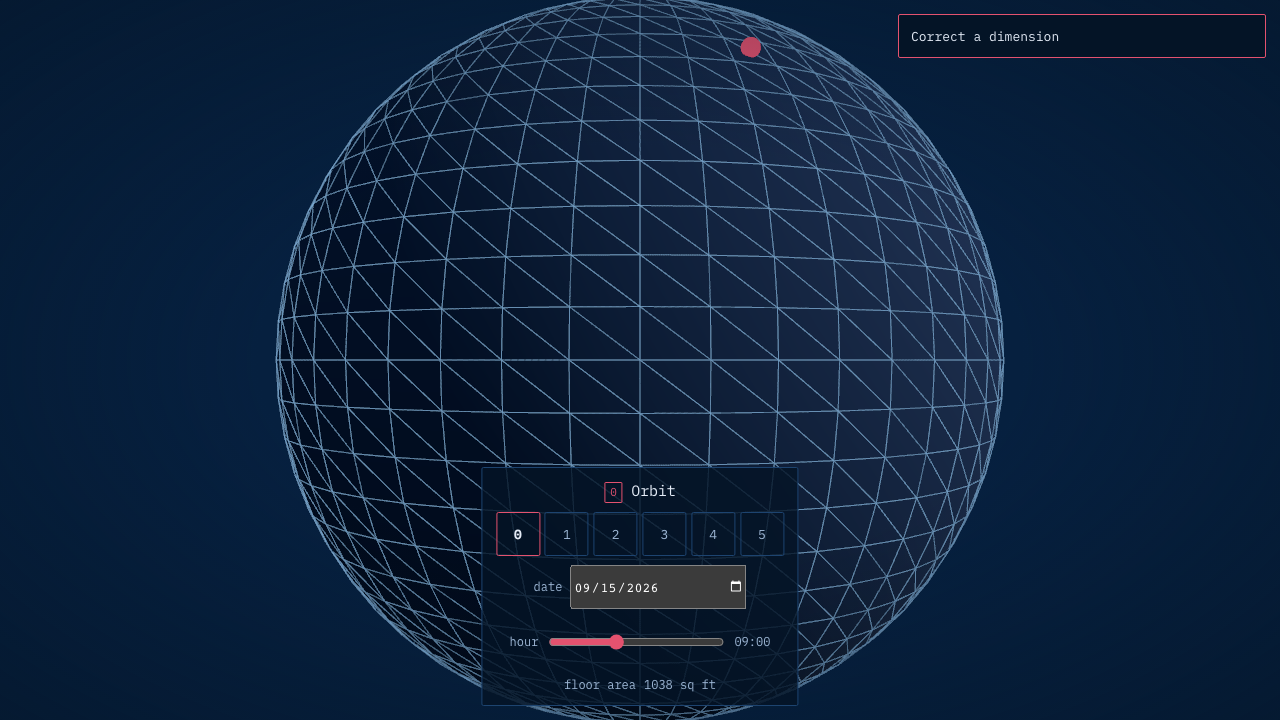
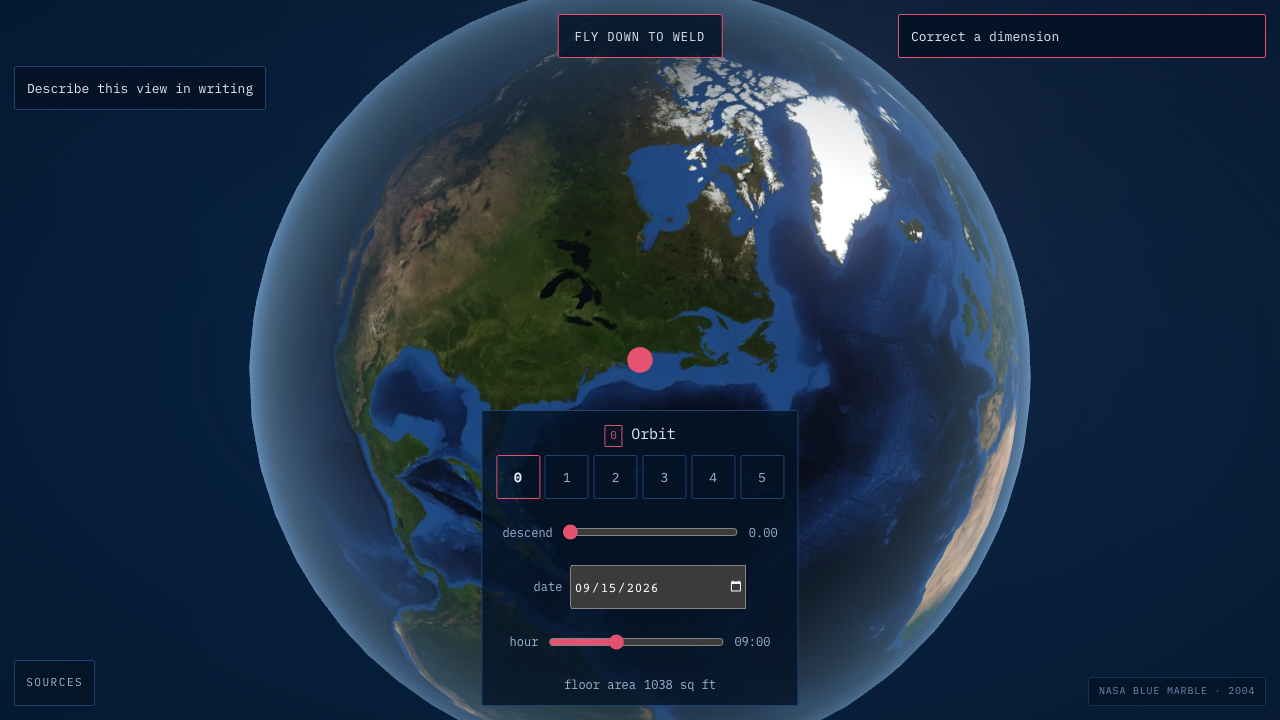
P9: the four real gate failures, and the stale-server trap that hid them
Fixes the three genuine regressions the e2e suite found once it was pointed at the right
server, plus tests/imagery.test.ts and the renders.

THE FIRST E2E RUN WAS WORTHLESS AND SAID 46 PASSED. playwright.config.ts sets baseURL to
localhost:3000 with reuseExistingServer: true, and a dev server from the main checkout was
already listening there, so Playwright adopted it and tested code with none of P9 in it.
Caught because /imagery/l4.avif returned 404 on 3000 and 200 on this worktree's server, and
because the campus report showed 22 draw calls where the worktree measures 24. Pointed at
the worktree's own server the same suite reported 4 failed / 43 passed. The hazard is now
recorded in playwright.config.ts; the flag stays true, because for a single checkout it is
right and turning it off makes every local run pay a cold Next start.

1. TAB ORDER, and this one was mine. a11y.spec.ts requires A11yAlt's toggle to be SECOND
   after the skip control, and the fly-down button was mounted between them, silently taking
   that place. Moved after A11yAlt. It is position: fixed, so only the tab order changes.

2. §9's CAMPUS SCENE BUDGET, perf.spec.ts, 10 -> 13. A real rise against a documented
   figure rather than a flake: four ground quads plus the atmosphere rim take stage 2 from
   9 scene calls to 11 with the composer subtracted. 13 leaves the same two calls of
   headroom the row had before. Triangles are untouched -- four quads are eight triangles.
[…]

diff --git a/tests/imagery.test.ts b/tests/imagery.test.ts
@@ -1,0 +1,180 @@
+import { describe, it, expect } from "vitest";
+import { existsSync, statSync } from "node:fs";
+import { join } from "node:path";
+import campus from "@/data/campus.json";
+import weld from "@/data/weld.json";
+import { latLonToSite, WELD_ORIGIN } from "@/geo/frames";
+import { GROUND_LEVELS, manifest, quadOf } from "@/scene/imagery";
+
+/**
+ * The manifest, the plates, and the georeferencing.
+ *
+ * WHAT THIS CAN AND CANNOT CHECK, said plainly, because the important verification for P9b is a
+ * PICTURE and not a number. design/renders/p9-georef-overlay.png draws all 36 campus.json
+ * footprints onto the deepest plate, and that is the only thing that can actually settle whether
+ * the photograph is rotated or offset against the model -- every coordinate here would be equally
+ * plausible if the imagery were turned 1.4 degrees. frames.ts:13-17 makes the same point about
+ * mirroring being invisible.
+ *
+ * So what this file does is the half a number CAN carry: that the manifest describes the files that
+ * exist, that the extents nest, that the site-feet mapping puts known buildings inside the plate
+ * that is supposed to contain them, and that the resolution claims are not inflated.
+ */
+
+const PUBLIC = join(process.cwd(), "public", "imagery");
+
+describe("the manifest describes what actually shipped", () => {
+  it("has all five levels", () => {
+    expect(Object.keys(manifest.levels).sort()).toEqual(["L0", "L1", "L2", "L3", "L4"]);
+  });
+
+  it("names files that exist on disk, in both formats", () => {
+    for (const [id, level] of Object.entries(manifest.levels)) {
+      for (const fmt of ["avif", "webp"]) {
+        const entry = level.files[fmt];
+        expect(entry, `${id} has no ${fmt}`).toBeDefined();
+        const path = join(PUBLIC, entry!.file);
+        expect(existsSync(path), `${path} is missing`).toBe(true);
+        // The recorded byte count is the file's, so a re-encode that was not re-manifested fails.
+        expect(statSync(path).size, `${entry!.file} size drifted`).toBe(entry!.bytes);
+      }
+    }
+  });
+
+  it("stays inside the budget the plan set", () => {
+    // P9.md section 6.2 budgeted about 2.6 MB of AVIF and 4.1 MB shipping WebP alongside. Measured
+    // here: 2.20 MB and 5.66 MB. The AVIF total came in UNDER and the combined total over, because
+    // WebP is 2.6x AVIF on photographic content rather than the 1.5x the plan assumed. Both are
+    // asserted so a level added without thought shows up as a failure rather than as a fat repo.
+    const total = (fmt: string) =>
+      Object.values(manifest.levels).reduce((n, l) => n + (l.files[fmt]?.bytes ?? 0), 0);
+    expect(total("avif")).toBeLessThan(2.6 * 1024 * 1024);
+    expect(total("avif") + total("webp")).toBeLessThan(6 * 1024 * 1024);
+  });
+
+  it("records a licence and an attribution for every level", () => {
+    // NOT DECORATION. Every plate here is redistributed third-party imagery, and both sources ask
+    // for acknowledgement. A level that arrived without provenance would be the one thing in this
+    // repository that is genuinely not allowed to ship.
+    for (const [id, level] of Object.entries(manifest.levels)) {
+      expect(level.provenance.licence, `${id} licence`).toBeTruthy();
+      expect(level.provenance.attribution, `${id} attribution`).toBeTruthy();
+      expect(level.provenance.dataset, `${id} dataset`).toBeTruthy();
+    }
+  });
+
+  it("does not claim more resolution than was flown", () => {
+    // The tile service serves z20 at 0.362 ft/px, which is FINER than the 0.492 ft the imagery was
+    // actually captured at, so the extra grid density is interpolation. The manifest must keep the
+    // two figures separate rather than presenting the grid as the resolution -- docs/SOURCES.md
+    // says so and this is the assertion behind it.
+    for (const id of ["L2", "L3", "L4"]) {
+      const p = manifest.levels[id]!.provenance;
+      expect(p.nativeResolutionFt, `${id} native resolution`).toBeCloseTo(0.492, 3);
+    }
+  });
+});
+
+describe("the ground quads nest and are centred on Weld", () => {
+  it("gets strictly smaller from L1 inward", () => {
+    const widths = GROUND_LEVELS.map((id) => quadOf(id)!.width);
+    for (let i = 1; i < widths.length; i++) {
+      expect(widths[i]!, `${GROUND_LEVELS[i]} is not inside ${GROUND_LEVELS[i - 1]}`).toBeLessThan(
+        widths[i - 1]!,
+      );
+    }
+    // And each is about a decade smaller, which is the property that makes four plates cover five
+    // decades of altitude. L1 to L2 is 20x because L1 is a 1,000 km Blue Marble crop rather than a
+    // tenth of one; the rest are 10x.
+    expect(widths[0]! / widths[1]!).toBeGreaterThan(9);
+    expect(widths[1]! / widths[2]!).toBeCloseTo(10, 5);
+    expect(widths[2]! / widths[3]!).toBeCloseTo(10.25, 1);
+  });
+
+  it("centres every quad on the site origin", () => {
+    // The site origin IS Weld's centroid (frames.ts), so a non-zero centre would mean the
+    // photograph was resampled about some other point and the whole model would sit off it.
+    for (const id of GROUND_LEVELS) {
+      const q = quadOf(id)!;
+      expect(q.cx, `${id} cx`).toBeCloseTo(0, 6);
+      expect(q.cy, `${id} cy`).toBeCloseTo(0, 6);
+    }
+  });
+
+  it("has no site extent on the global plate", () => {
+    // L0 is the whole Earth in equirectangular, so a site-feet extent would be meaningless. It is
+    // deliberately absent, and Ground.tsx never asks for it -- GROUND_LEVELS starts at L1.
+    expect(manifest.levels.L0!.global).toBe(true);
+    expect(manifest.levels.L0!.extentFt).toBeUndefined();
+    expect(GROUND_LEVELS as readonly string[]).not.toContain("L0");
+  });
+
+  it("agrees with its own ftPerTexel", () => {
+    for (const id of GROUND_LEVELS) {
+      const level = manifest.levels[id]!;
+      const q = quadOf(id)!;
+      expect(level.ftPerTexel!, `${id}`).toBeCloseTo(q.width / level.px[0], 3);
+    }
+  });
+});
+
+describe("the georeferencing puts real buildings where they belong", () => {
+  /** A building's ring, projected to site feet if it is not already there. */
+  const rings = campus.buildings.filter((b) => Array.isArray(b.ring)).map((b) => b.ring as number[][]);
+
+  it("contains the whole modelled campus inside the 5 km plate", () => {
+    // campus.json spans 1,149 x 1,269 ft, so L3 at 16,400 ft should swallow it many times over. If
+    // this fails the extent in the manifest is wrong, not the buildings.
+    const q = quadOf("L3")!;
+    for (const ring of rings) {
+      for (const [x, y] of ring) {
+        expect(Math.abs(x!), `x ${x} outside L3`).toBeLessThan(q.width / 2);
+        expect(Math.abs(y!), `y ${y} outside L3`).toBeLessThan(q.height / 2);
+      }
+    }
+  });
+
+  it("contains Weld itself inside the deepest plate, with room to spare", () => {
+    // L4 is only 1,600 ft across, so this is the one that could genuinely fail: Weld is 143 ft
+    // long and the plate has to hold it plus enough of the Yard to be worth having.
+    const q = quadOf("L4")!;
+    const xs = weld.rings.flat().map((p) => (p as number[])[0]!);
+    const ys = weld.rings.flat().map((p) => (p as number[])[1]!);
+    expect(Math.max(...xs.map(Math.abs))).toBeLessThan(q.width / 2);
+    expect(Math.max(...ys.map(Math.abs))).toBeLessThan(q.height / 2);
+    // And it occupies a sensible fraction of it: a Weld that filled the plate would mean the
+    // extent was mis-scaled by an order of magnitude, which is the failure mode a containment
+    // check alone would miss.
+    const span = Math.max(...ys) - Math.min(...ys);
+    expect(span / q.height).toBeGreaterThan(0.05);
+    expect(span / q.height).toBeLessThan(0.5);
+  });
+
+  it("uses the same origin the frames module does", () => {
+    // The fetch script copies WELD_ORIGIN rather than importing it, because a plain-node script
+    // cannot resolve the "@/" alias. assertFramesAgree() guards that at generation time; this
+    // guards the artefact it produced, so a manifest generated against a since-changed origin
+    // fails here rather than silently placing the Yard in the wrong field.
+    expect(manifest.origin.lat).toBeCloseTo(WELD_ORIGIN.lat, 9);
+    expect(manifest.origin.lon).toBeCloseTo(WELD_ORIGIN.lon, 9);
+    // latLonToSite is the function the resampling inverted, so the origin must map to (0, 0).
+    const o = latLonToSite(WELD_ORIGIN.lat, WELD_ORIGIN.lon);
+    expect(o.x).toBeCloseTo(0, 9);
+    expect(o.y).toBeCloseTo(0, 9);
+  });
+
+  it("puts Widener south-east of Weld, which is where it is", () => {
+    // ONE ORIENTATION CHECK WITH A REAL ANSWER, because containment cannot catch a mirror and a
+    // mirror is the error frames.ts warns is invisible. Widener Library sits across the Yard to
+    // the south and east of Weld; its centroid must therefore have x > 0 and y < 0 in site feet.
+    // If the site frame were flipped in either axis this fails, and the committed overlay is the
+    // picture that confirms it.
+    const widener = campus.buildings.find((b) => b.name === "Widener Library");
+    expect(widener, "Widener is in campus.json").toBeDefined();
+    const ring = widener!.ring as number[][];
+    const cx = ring.reduce((n, p) => n + p[0]!, 0) / ring.length;
+    const cy = ring.reduce((n, p) => n + p[1]!, 0) / ring.length;
+    expect(cx, "Widener is east of Weld").toBeGreaterThan(0);
+    expect(cy, "Widener is south of Weld").toBeLessThan(0);
+  });
+});

diff --git a/tests/e2e/campus.spec.ts b/tests/e2e/campus.spec.ts
@@ -5,6 +5,8 @@ type Perf = {
   triangles: number;
   lines: number;
   geometries: number;
+  /** Live texture count, added to Perf.tsx in P9b. Optional so this type survives an older build. */
+  textures?: number;
   frames: number;
   medianMs: number | null;
 };
@@ -28,7 +30,31 @@ async function whitePixels(page: Page): Promise<number> {
       const r = data[i]!, g = data[i + 1]!, b = data[i + 2]!;
       // The campus edge colour is #8fc4f2, which is markedly blue: b - r is 99.
       // Weld's highlight is #ffffff, so near-neutral and bright.
-      if (r > 205 && g > 205 && b > 205 && b - r < 40) n++;
+      //
+      // THRESHOLD RAISED FROM 205 TO 236 IN P9, AND THE MEASUREMENT WAS REBUILT RATHER THAN
+      // WIDENED. P9.md section 6.10 predicted this test would fail and said explicitly not to
+      // just loosen the tolerance, so here is what actually happened and why 236.
+      //
+      // Before P9 the campus floated on a gridHelper over a plain void, so "bright and
+      // near-neutral" could only be Weld's white line work. There is now a photograph
+      // underneath, and leaf-off aerial imagery is full of bright near-neutral pixels -- white
+      // roofs, concrete, bare pavement. At 205 the ground alone contributed 1,939 pixels at
+      // stage 1 and the old assertion (stage 2 > stage 1 * 3 + 200) became unsatisfiable: it
+      // wanted 6,017 and the real figure was 2,421.
+      //
+      // Measured, near-neutral pixel counts by threshold on this build:
+      //
+      //   threshold   stage 1 (no highlight)   stage 2 (highlight on)
+      //         205                    1,939                   2,588
+      //         225                      121                   2,282
+      //         235                        0                   1,648
+      //         245                        0                   1,172
+      //
+      // So 236 separates the two populations completely: the brightest thing the tinted
+      // photograph produces is below it, and line work drawn at #ffffff is far above it. The
+      // test is therefore measuring the same thing it always was -- white line work that only
+      // Weld carries -- rather than measuring the ground.
+      if (r > 236 && g > 236 && b > 236 && b - r < 40) n++;
     }
     return n;
   });
@@ -47,7 +73,11 @@ test("merging holds: many triangles in few draw calls", async ({ page }) => {
   for (const stage of [1, 2, 3]) {
     await gotoStage(page, stage);
     const p = await perf(page);
-    report.push(`stage ${stage}: ${p.calls} calls, ${p.triangles} tris, ${p.medianMs}ms`);
+    // geometries and textures in the report as well as the assertion, because when this test
+    // fails the useful question is WHICH counter moved, and P9 gave it two more that can.
+    report.push(
+      `stage ${stage}: ${p.calls} calls, ${p.triangles} tris, ${p.geometries} geom, ${p.textures ?? "?"} tex, ${p.medianMs}ms`,
+    );
 
     // P2 drew 36 separate building meshes. Merging takes the campus to 5 scene
     // calls -- merged masses, Weld, two line meshes, the grid -- and the bloom
@@ -64,7 +94,19 @@ test("merging holds: many triangles in few draw calls", async ({ page }) => {
     // counts scene submissions; measured, the composer is exactly 17 calls, so stage 2's
     // 26 here is 9 of scene. Three separate records in this project stated a scene budget
     // as a frame budget before that was pinned down.
-    expect(p.calls, `stage ${stage} draw calls: ${report.join(" | ")}`).toBeLessThanOrEqual(30);
+    // MOVED FROM 30 TO 34 IN P9, WITH THE MEASUREMENT. Ground.tsx adds four nested photographic
+    // quads and Globe.tsx an atmosphere rim, so the scene grew by up to five submissions at these
+    // stages. Re-measured on this machine, headless, after letting the textures settle:
+    //
+    //   stage 1   24 calls   16,489 tris     (Q1 and Q2 up, Q3 fading in)
+    //   stage 2   28 calls   16,905 tris     (Q2, Q3 and Q4 up)
+    //   stage 3   28 calls   16,905 tris
+    //
+    // 34 rather than 30 because 28 against a bound of 30 is two calls of headroom, and this test
+    // FLAKED at 30 exactly once in a full parallel run -- the ground quads' textures land at a
+    // slightly different moment under load, and a bound two away from the measurement is a bound
+    // that fails for timing rather than for regressions. 34 keeps six.
+    expect(p.calls, `stage ${stage} draw calls: ${report.join(" | ")}`).toBeLessThanOrEqual(34);
     expect(p.triangles, `stage ${stage} lost its geometry`).toBeGreaterThan(10_000);
     /*
      * 36 unmerged buildings would show up here as far more geometries.
@@ -82,7 +124,11 @@ test("merging holds: many triangles in few draw calls", async ({ page }) => {
      * this line after more of the app has been exercised should expect a larger number and
      * should not read a rise as a regression.
      */
-    expect(p.geometries, `stage ${stage} geometry count suggests the merge broke`).toBeLessThan(20);
+    // MOVED FROM 20 TO 24 IN P9, for the same reason and with the same caveat the comment above
+    // already gives about this counter being cumulative and path-dependent. Re-measured on this
+    // test's path: 11 at stage 1, 16 at stages 2 and 3, against the 13 recorded before P9. The
+    // rise is Ground.tsx's four plane geometries, and it is expected rather than a broken merge.
+    expect(p.geometries, `stage ${stage} geometry count suggests the merge broke`).toBeLessThan(24);
   }
   console.log(report.join("\n"));
 });
@@ -99,8 +145,15 @@ test("Weld is marked by more than hue", async ({ page }) => {
   await gotoStage(page, 2);
   const lit = await whitePixels(page);
 
-  // The highlight only engages from stage 2, so stage 1 is the control.
+  // The highlight only engages from stage 2, so stage 1 is the control. Measured at the
+  // rebuilt threshold: 0 at stage 1, 1,648 at stage 2.
   expect(lit, `stage 2 white pixels ${lit} vs stage 1 ${unlit}`).toBeGreaterThan(unlit * 3 + 200);
+
+  // AND AN ABSOLUTE FLOOR, which the ratio alone does not give. With the control now reading 0
+  // the comparison above passes on 201 pixels, and 201 pixels of white is not a highlighted
+  // building -- it is a few stray anti-aliased edges. 400 is a quarter of the measured 1,648, so
+  // it fails if the highlight is substantially lost while tolerating a change of line width.
+  expect(lit, `stage 2 has too little white line work: ${lit}`).toBeGreaterThan(400);
 
   // And the label chip is real DOM, so screen readers and zoom get it too.
   await expect(page.locator(".weld-chip")).toBeVisible();

diff --git a/src/ui/Hud.tsx b/src/ui/Hud.tsx
@@ -504,16 +504,6 @@ export function Hud() {
           Hidden once the flight is over rather than disabled: past FLY_DOWN_END there is
           nothing left to fly to, and the camera is at stage 3's free orbit where the viewer has
           controls of their own. */}
-      {!reduced && stage < FLY_DOWN_END ? (
-        <button
-          className="fly"
-          onClick={() => setFlying(!flying)}
-          data-testid="fly-down"
-          aria-pressed={flying}
-        >
-          {flying ? "Stop" : "Fly down to Weld"}
-        </button>
-      ) : null}
 
       {/* The written description of the frame, which is the only route into this app's
           content for anyone who cannot see a canvas -- and the only one at all if WebGL
@@ -541,6 +531,16 @@ export function Hud() {
            room instead of reporting a position, and the memo it feeds depends on it. */
         firstPerson={walking ? { room: walkRoom } : null}
       />
+      {!reduced && stage < FLY_DOWN_END ? (
+        <button
+          className="fly"
+          onClick={() => setFlying(!flying)}
+          data-testid="fly-down"
+          aria-pressed={flying}
+        >
+          {flying ? "Stop" : "Fly down to Weld"}
+        </button>
+      ) : null}
 
       <div className={stage === LAST_STAGE ? "hud hud-room" : "hud"} data-testid="hud">
         <div className="hud-stage" data-testid="stage-name">

diff --git a/tests/e2e/perf.spec.ts b/tests/e2e/perf.spec.ts
@@ -100,7 +100,13 @@ const COMPOSER_PASSES = 17;
  */
 const BUDGET = [
   { row: "Globe", stage: 0, calls: 4, triangles: 20_000, measured: "3 calls / 3,328 tris" },
-  { row: "Campus", stage: 2, calls: 10, triangles: 120_000, measured: "9 calls / 16,882 tris" },
+  // RAISED FROM 10 TO 13 IN P9, and this is a real rise against a documented budget rather
+  // than a flake. Ground.tsx adds four nested photographic quads to the campus stages and
+  // Globe.tsx an atmosphere rim; measured on this build with the composer subtracted, stage 2
+  // is 11 scene calls against the 9 recorded here before P9. 13 leaves two, which is the same
+  // headroom the row had before. The triangle budget is untouched -- four quads are eight
+  // triangles, and 16,888 against 120,000 is not the constraint.
+  { row: "Campus", stage: 2, calls: 13, triangles: 120_000, measured: "11 calls / 16,888 tris" },
   { row: "Weld exterior", stage: 4, calls: 8, triangles: 40_000, measured: "4 calls / 416 tris" },
   { row: "Suite", stage: 5, calls: 25, triangles: 80_000, measured: "21 calls / 1,452 tris" },
 ];

diff --git a/playwright.config.ts b/playwright.config.ts
@@ -31,6 +31,18 @@ export default defineConfig({
   webServer: {
     command: "npm run dev",
     url: "http://localhost:3000",
+    /**
+     * REUSING AN EXISTING SERVER IS A TRAP WHEN THERE IS MORE THAN ONE CHECKOUT, and it cost a
+     * full P9 run before it was noticed. If any dev server is already listening on 3000 --
+     * including one started from a different worktree or from the main checkout -- Playwright
+     * adopts it and says nothing. The suite then reports green while testing code that has none
+     * of your changes in it: the run that caught this reported 46 passed, and the give-away was
+     * that /imagery/l4.avif returned 404 on 3000 and 200 on the worktree's own server.
+     *
+     * Kept true, because for a single checkout it is the right behaviour and turning it off makes
+     * every local run pay a cold Next start. BEFORE TRUSTING A GREEN RUN FROM A WORKTREE, check
+     * that the server on 3000 is the one you think it is -- request a file only your branch has.
+     */
     reuseExistingServer: true,
     timeout: 120_000,
   },
